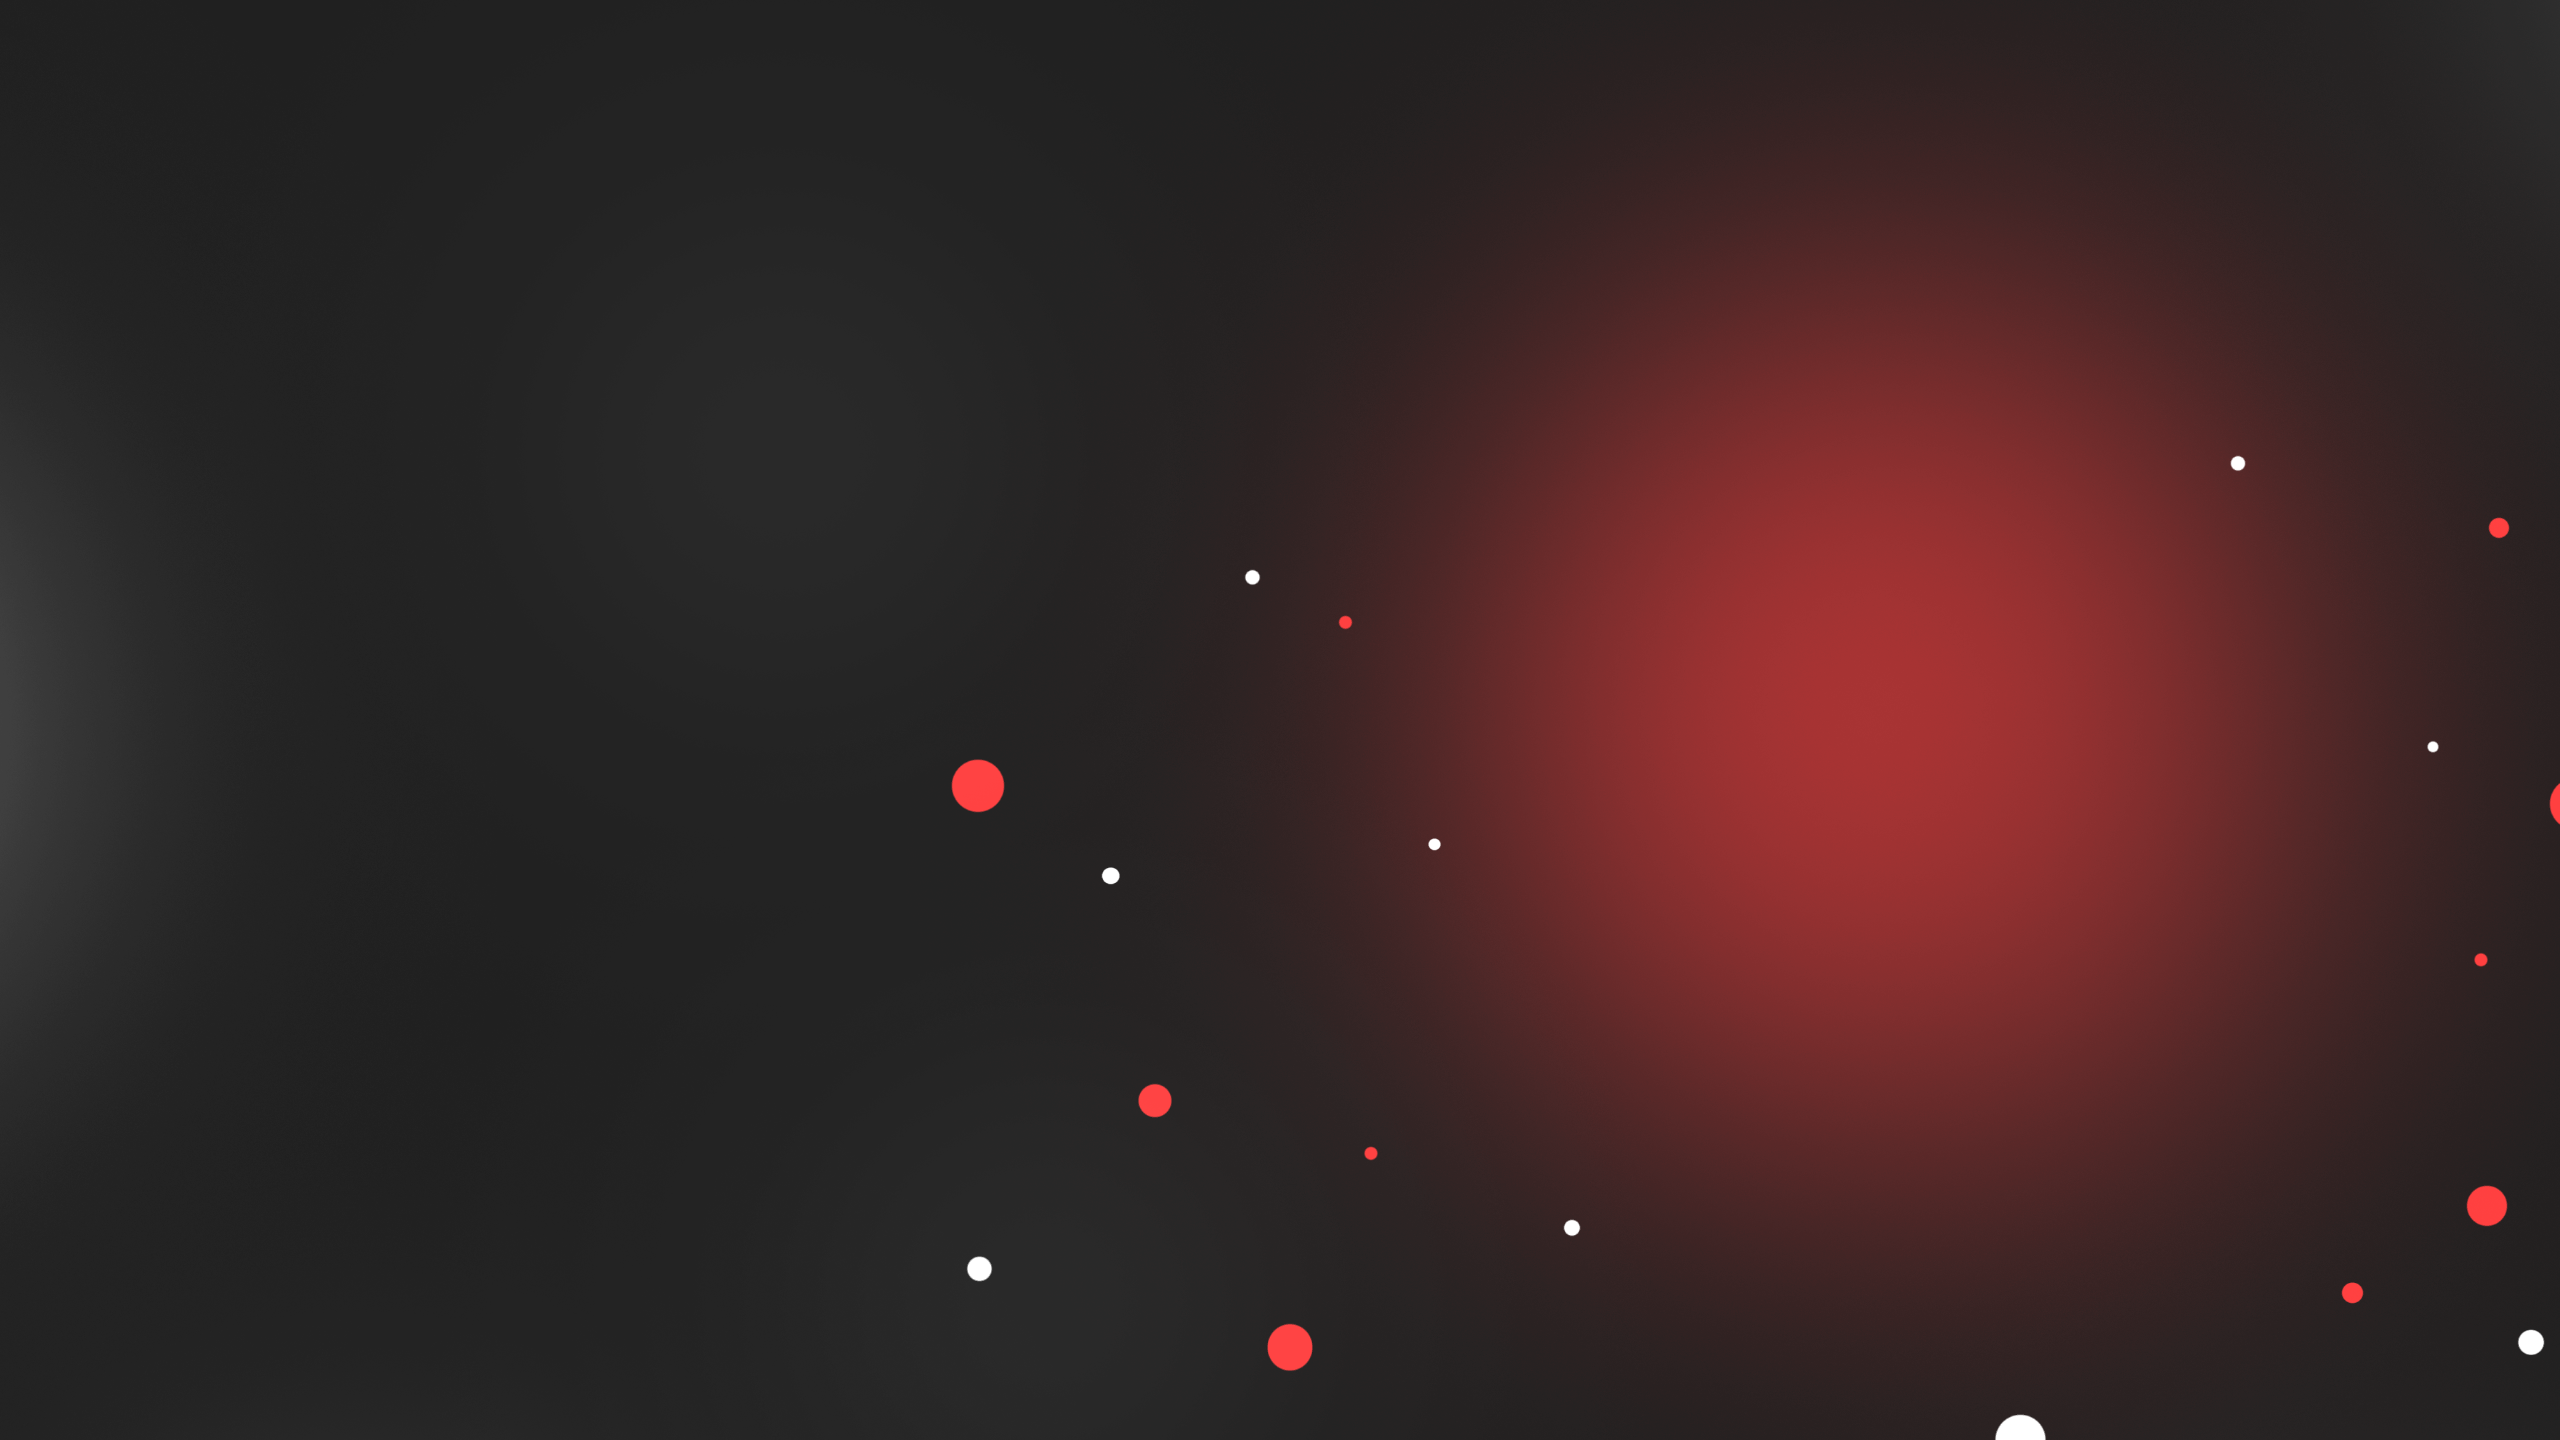
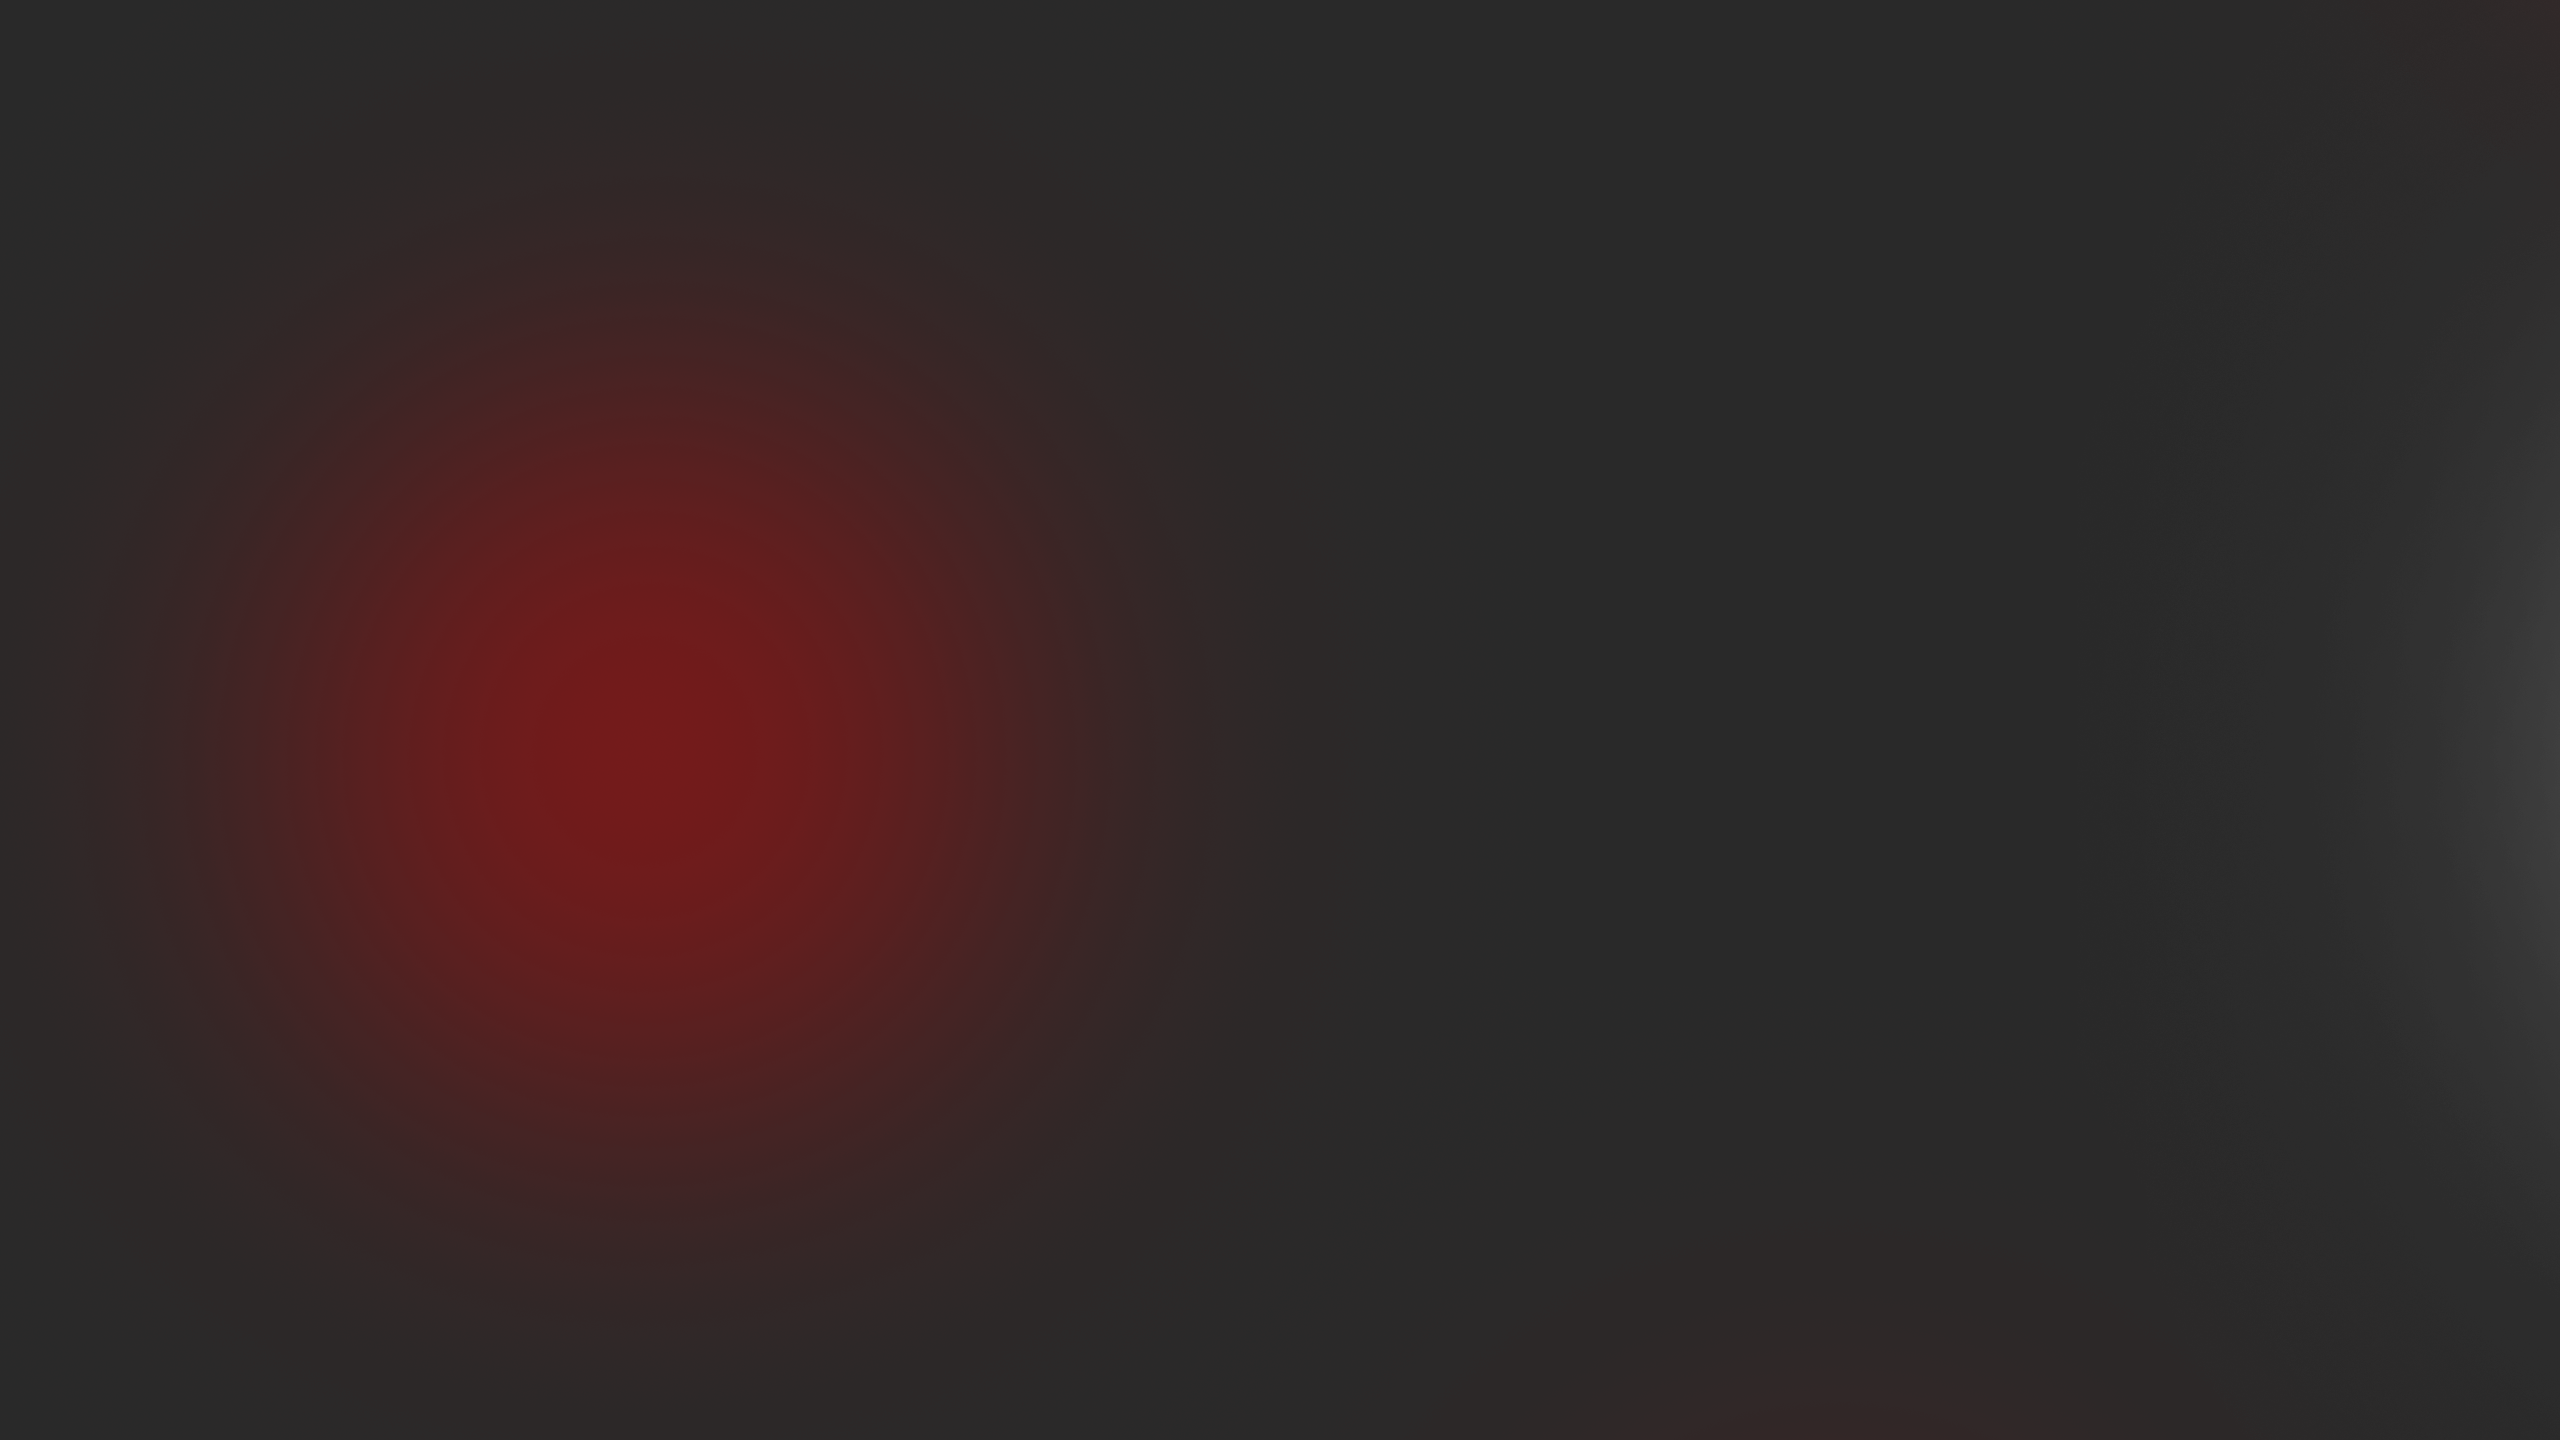
add more

diff --git a/html/MyAdvisor.html b/html/MyAdvisor.html
@@ -4,9 +4,46 @@
     <meta charset="UTF-8">
     <meta name="viewport" content="width=device-width, initial-scale=1.0">
     <title>myadvisor</title>
+    <link rel="stylesheet" href="../css/advisor.css">
 </head>
 <body>
-    <h1>dee jaaa</h1>
+    <div class="img-teacher" >
+        <img src="../image/teacher.png" alt="teacher face">
+    </div>
+    <main class="info-tea">
+        <div>
+            <h3>ABOUT TEACHER</h3>
+            <h1>
+                ผศ.ดร.มนวรรัตน์ ผ่องไพบูลย์ <br>
+                Asst.Prof.Dr. MONVORARAT PONGPAIBOON
+            </h1>
+            <p>
+<strong>ข้อมูลติดต่อ (CONTACT INFORMATION)</strong> <br>
+<ul>
+    <li>อาคาร LC-2 ชั้น 2 ห้อง 210</li>
+    <li>0-2986-9156 ต่อ 219</li>
+    <li>pmonvora@tu.ac.th</li>
+</ul> <br>
+<strong>หัวข้อวิจัยที่สนใจ (RESEARCH INTEREST)</strong>
+<ul>
+    <li>Software economics</li>
+    <li>Software process and improvement</li>
+    <li>Software metrics</li>
+    <li>Process simulation</li>
+</ul><br>
+<strong>การศึกษา (EDUCATION)</strong>
+<ul>
+    <li>Ph.D.(Computer Science) University of Southern California, USA, 2550</li>
+    <li>M.S. (Computer Science), University of Southern California, USA, 2550</li>
+    <li>วท.บ. (ศาสตร์คอมพิวเตอร์) มหาวิทยาลัยธรรมศาสตร์, ประเทศไทย, 2541
+    </li>
+</ul>
+            </p>
+        </div>
+    </main>
+    <footer class="more-teacher">
+        <a href="https://cs.sci.tu.ac.th/2022/01/24/monvorath/">More about her</a>
+    </footer>
     
 </body>
 </html>

diff --git a/css/advisor.css b/css/advisor.css
@@ -1,0 +1,33 @@
+*{
+    margin: 0;
+    padding: 0;
+    box-sizing: border-box;
+    font-family: 'Poppins', sans-serif;
+}
+body
+{
+    background-image: url(../image/bac2.png);
+    background-size: 1920px 1100px;
+    display: flex;
+    align-items: center;
+    justify-content: space-between;
+    margin-top: 100px;
+}
+.img-teacher img
+{
+    width: 550px;
+}
+.img-teacher
+{
+    margin-left: 200px;
+}
+.info-tea
+{
+    color: white;
+}
+.info-tea h1
+{
+    margin-bottom: 10px;
+    text-shadow: 0 0 10px #ff4040;
+    color: #ff4040;
+}

diff --git a/index.html b/index.html
@@ -13,7 +13,7 @@
         </a>
         <nav class="navbar">
             <a href="#" class="na1">ABOUT ME</a>
-            <a href="#" class="na2">ADVISOR</a>
+            <a href="html/MyAdvisor.html" class="na2">ADVISOR</a>
             <a href="#" class="na3">ACTIVITIES</a>
             <a href="#" class="active">HOME PAGE</a>
         </nav>

diff --git a/css/homepage.css b/css/homepage.css
@@ -74,7 +74,7 @@
 }
 body
 {
-    background-image: url(../image/bac2.png);
+    background-image: url(../image/bac.png);
     background-size: 1920px 1100px;
 }
 
